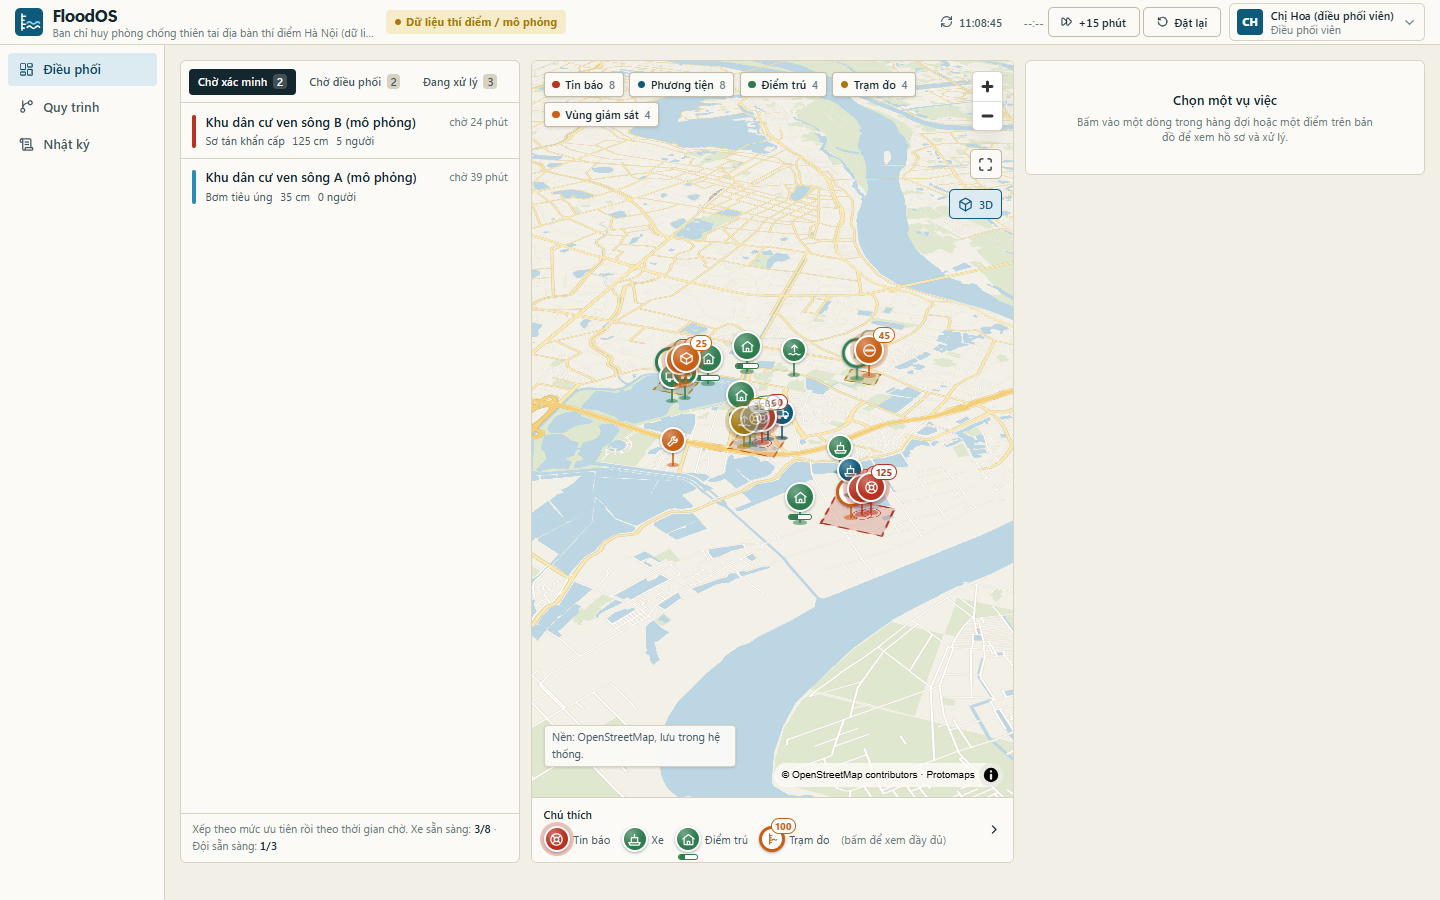
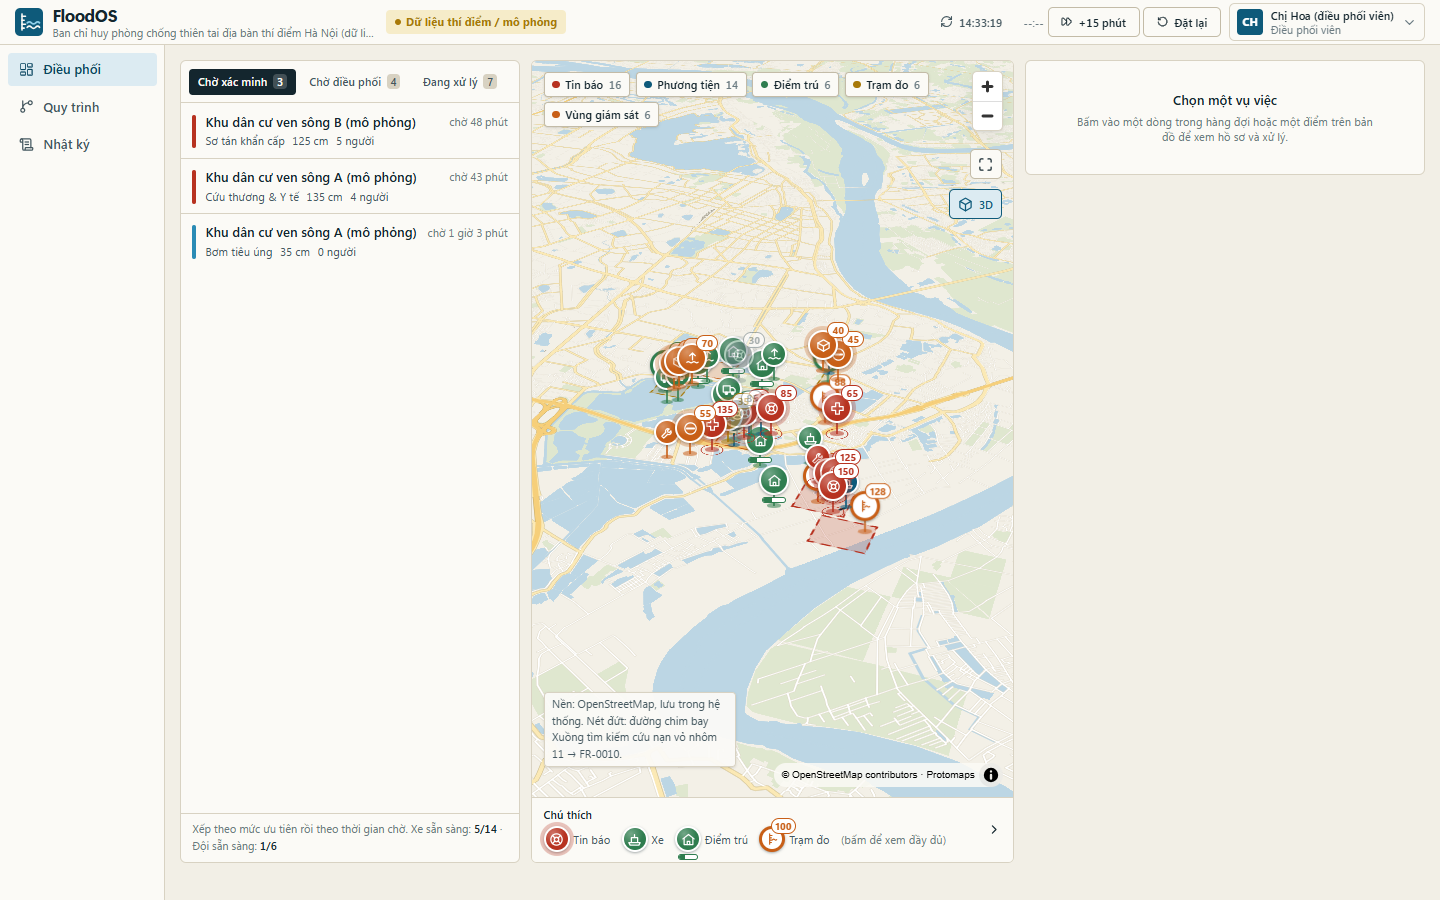
chore(scenario): expand tactical disaster scenario to 16 flood reports, 14 vehicles, and 6 shelters

Changed region(s): [[0.125, 0.0622, 0.7188, 0.9022]]

diff --git a/apps/web/src/utils/labels.ts b/apps/web/src/utils/labels.ts
@@ -70,6 +70,10 @@ const VEHICLE_TYPE: Record<string, string> = {
   RESCUE_BOAT: 'Xuồng cứu hộ',
   HIGH_CLEARANCE_TRUCK: 'Xe gầm cao lội nước',
   MOBILE_PUMP: 'Máy bơm di động',
+  AMPHIBIOUS_CARRIER: 'Xe lội nước bánh xích',
+  SCOUT_DRONE: 'Drone trinh sát tầm nhiệt',
+  AMBULANCE_AMPHIBIOUS: 'Xe cấp cứu lội nước',
+  COMMAND_VEHICLE: 'Xe chỉ huy tác chiến',
 };
 
 const VEHICLE_STATUS: Record<string, Label> = {

diff --git a/apps/floodos/FloodDataStore.java b/apps/floodos/FloodDataStore.java
@@ -502,13 +502,37 @@ public final class FloodDataStore {
         Instant base = Instant.now().truncatedTo(ChronoUnit.HOURS);
         String now = iso(Instant.now());
 
+        // Zones bổ sung
+        addZone("Z05", PILOT_ORG, "Khu vực hạ lưu sông Nhuệ - Hà Đông (mô phỏng)", "CRITICAL", 115.0, 20.9540, 105.8870, 28.0, now);
+        addZone("Z06", PILOT_ORG, "Tuyến đê bãi bồi sông Đáy (mô phỏng)", "WARNING", 85.0, 20.9790, 105.8620, 22.0, now);
+
+        // Đội cứu hộ chuyên trách bổ sung
+        teams.put("T04", new RescueTeam("T04", PILOT_ORG, "usr_team_binh", "Đội y tế khẩn cấp 04", 4, List.of("MEDICAL", "FIRST_AID"), 4.9, "ON_MISSION"));
+        teams.put("T05", new RescueTeam("T05", PILOT_ORG, "usr_team_cuong", "Đội thợ lặn & cứu nạn 05", 5, List.of("BOAT_RESCUE", "DIVER_RESCUE"), 4.9, "ON_MISSION"));
+        teams.put("T06", new RescueTeam("T06", PILOT_ORG, "usr_team_dung", "Đội xung kích hậu cần 06", 8, List.of("HIGH_WATER_TRUCK", "LOGISTICS"), 4.7, "ON_MISSION"));
+
+        // Phương tiện cứu hộ cơ giới & trang thiết bị đa chủng loại
         addVehicle("V06", PILOT_ORG, "Xe lội nước bánh xích 06", "AMPHIBIOUS_CARRIER", 16, "PERSONS", "WORKING", 85, 98, 20.9675, 105.8730, "T02", now);
-        addVehicle("V07", PILOT_ORG, "Xuồng cứu hộ cao tốc 07", "RESCUE_BOAT", 12, "PERSONS", "WORKING", 74, 95, 20.9610, 105.8820, "T01", now);
+        addVehicle("V07", PILOT_ORG, "Xuồng cứu hộ cao tốc 07", "RESCUE_BOAT", 12, "PERSONS", "BREAKDOWN", 74, 85, 20.9610, 105.8820, "T01", now);
         addVehicle("V08", PILOT_ORG, "Drone trinh sát tầm nhiệt 08", "SCOUT_DRONE", 5, "KG", "IDLE", 92, 99, 20.9710, 105.8610, "T02", now);
+        addVehicle("V09", PILOT_ORG, "Xe cấp cứu lội nước 09", "AMBULANCE_AMPHIBIOUS", 4, "PERSONS", "WORKING", 88, 98, 20.9645, 105.8710, "T04", now);
+        addVehicle("V10", PILOT_ORG, "Trạm bơm dã chiến công suất lớn 10", "MOBILE_PUMP", 3500, "M3_PER_HOUR", "IDLE", 82, 95, 20.9760, 105.8625, "T03", now);
+        addVehicle("V11", PILOT_ORG, "Xuồng tìm kiếm cứu nạn vỏ nhôm 11", "RESCUE_BOAT", 12, "PERSONS", "WORKING", 90, 97, 20.9580, 105.8860, "T05", now);
+        addVehicle("V12", PILOT_ORG, "Xe tải đặc chủng vượt lũ 3 cầu 12", "HIGH_CLEARANCE_TRUCK", 25, "PERSONS", "WORKING", 76, 94, 20.9825, 105.8760, "T06", now);
+        addVehicle("V13", PILOT_ORG, "Drone thả phao cứu sinh tự động 13", "SCOUT_DRONE", 10, "KG", "IDLE", 95, 99, 20.9670, 105.8720, "T01", now);
+        addVehicle("V14", PILOT_ORG, "Xe chỉ huy tác chiến & phát điện 14", "COMMAND_VEHICLE", 8, "PERSONS", "IDLE", 85, 96, 20.9700, 105.8680, "T02", now);
 
+        // Điểm sơ tán an toàn
         shelters.put("S04", new SafeShelter("S04", PILOT_ORG, "Nhà thi đấu TDTT quận (điểm trú dã chiến)", 350, 120, "SEED", 20.9780, 105.8650, "OPEN", now));
-        gauges.put("G04", new GaugeStation("G04", PILOT_ORG, "Z04", "Trạm thủy văn sông Nhuệ G04", 20.9805, 105.8765, 85, 120, 78.0, now, "SIMULATOR"));
+        shelters.put("S05", new SafeShelter("S05", PILOT_ORG, "Cung thể thao Điền kinh Hà Nội", 600, 210, "SEED", 20.9765, 105.8695, "OPEN", now));
+        shelters.put("S06", new SafeShelter("S06", PILOT_ORG, "Trường THPT Chuyên Nguyễn Huệ (điểm sơ tán dự phòng)", 400, 145, "SEED", 20.9620, 105.8750, "OPEN", now));
 
+        // Trạm quan trắc thủy văn cảnh báo lũ
+        gauges.put("G04", new GaugeStation("G04", PILOT_ORG, "Z04", "Trạm thủy văn sông Nhuệ G04", 20.9805, 105.8765, 85, 120, 78.0, now, "SIMULATOR"));
+        gauges.put("G05", new GaugeStation("G05", PILOT_ORG, "Z05", "Trạm thủy văn đập Đáy G05", 20.9550, 105.8890, 110, 135, 128.0, now, "SIMULATOR"));
+        gauges.put("G06", new GaugeStation("G06", PILOT_ORG, "Z01", "Trạm thủy văn Cầu Trắng Hà Đông G06", 20.9720, 105.8790, 80, 95, 88.0, now, "SIMULATOR"));
+
+        // Danh sách tin báo ngập lụt đa cấp độ
         reports.put("FR-0005", report("FR-0005", "Z02", "usr_reporter_lan", 20.9592, 105.8845, 125, "EVACUATION", 5,
                 "Nước lũ dâng ngập ngang ngực, có cụ già 82 tuổi và 2 trẻ nhỏ đang mắc kẹt trên gác xép cần xuồng cứu hộ gấp", "CRITICAL", "RECEIVED", base.minus(15, ChronoUnit.MINUTES)));
         reports.put("FR-0006", report("FR-0006", "Z04", "usr_reporter_hung", 20.9815, 105.8775, 45, "ROAD_BLOCKED", 0,
@@ -518,19 +542,69 @@ public final class FloodDataStore {
         reports.put("FR-0008", report("FR-0008", "Z01", "usr_reporter_hung", 20.9658, 105.8708, 85, "EVACUATION", 6,
                 "Đã sơ tán an toàn 6 người dân ngập sâu đến Trường tiểu học cụm A an toàn", "URGENT", "RESOLVED", base.minus(240, ChronoUnit.MINUTES)));
 
+        reports.put("FR-0009", report("FR-0009", "Z01", "usr_reporter_lan", 20.9630, 105.8690, 135, "MEDICAL", 4,
+                "Trạm y tế xã ngập tầng 1, có 2 bệnh nhân thở máy cần máy phát điện khẩn cấp và xe cứu thương lội nước di dời khẩn cấp", "CRITICAL", "RECEIVED", base.minus(10, ChronoUnit.MINUTES)));
+        reports.put("FR-0010", report("FR-0010", "Z02", "usr_reporter_hung", 20.9570, 105.8850, 150, "EVACUATION", 7,
+                "Sạt đê bao phụ kênh dẫn nước, dòng chảy xiết ngập đến mái nhà, 7 người dân đang bám trên mái tôn kêu cứu khẩn cấp", "CRITICAL", "IN_PROGRESS", base.minus(50, ChronoUnit.MINUTES)));
+        reports.put("FR-0011", report("FR-0011", "Z03", "usr_reporter_lan", 20.9750, 105.8610, 70, "PUMPING", 0,
+                "Hầm chung cư HH bị nước tràn từ đường lớn, trạm biến áp ngầm có nguy cơ nổ chập nếu nước dâng thêm 15cm, cần máy bơm công suất lớn", "HIGH", "VERIFIED", base.minus(35, ChronoUnit.MINUTES)));
+        reports.put("FR-0012", report("FR-0012", "Z01", "usr_reporter_hung", 20.9680, 105.8740, 85, "EVACUATION", 9,
+                "Khu dân cư tổ 5 ngõ 12 bị ngập sâu chia cắt, các gia đình đã gom người già lên tầng 2 nhưng nước tiếp tục dâng 10cm/giờ", "URGENT", "DISPATCHED", base.minus(75, ChronoUnit.MINUTES)));
+        reports.put("FR-0013", report("FR-0013", "Z04", "usr_reporter_lan", 20.9830, 105.8750, 40, "FOOD_WATER", 25,
+                "Cụm dân cư xóm Đồi bị cô lập 4 ngày do cầu tràn ngập nước chảy xiết, 25 người dân cạn kiệt lương thực và nước sạch", "HIGH", "IN_PROGRESS", base.minus(180, ChronoUnit.MINUTES)));
+        reports.put("FR-0014", report("FR-0014", "Z01", "usr_reporter_hung", 20.9615, 105.8670, 55, "ROAD_BLOCKED", 0,
+                "Cây xà cừ cổ thụ bật gốc đè lên dây điện và chắn ngang quốc lộ đoạn qua cống tiêu, ngăn cản xe cứu hộ tiếp cận", "HIGH", "VERIFIED", base.minus(60, ChronoUnit.MINUTES)));
+        reports.put("FR-0015", report("FR-0015", "Z02", "usr_reporter_lan", 20.9705, 105.8810, 65, "MEDICAL", 1,
+                "Sản phụ chuyển dạ sinh non trong vùng ngập sâu đường ngõ hẹp, xe cứu thương thông thường không vào được", "URGENT", "IN_PROGRESS", base.minus(85, ChronoUnit.MINUTES)));
+        reports.put("FR-0016", report("FR-0016", "Z03", "usr_reporter_hung", 20.9775, 105.8660, 30, "EVACUATION", 8,
+                "Đã hoàn thành sơ tán an toàn 8 hộ dân khu trũng bãi bồi ven sông sang Nhà thi đấu TDTT quận trước đỉnh lũ", "NORMAL", "RESOLVED", base.minus(300, ChronoUnit.MINUTES)));
+
+        // Lệnh điều động lực lượng
         orders.put("ORD-0003", new DispatchOrder("ORD-0003", PILOT_ORG, "FR-0008", "usr_reporter_hung", "Z01", "V06", "T02",
                 iso(base.minus(3, ChronoUnit.HOURS)), iso(base.minus(1, ChronoUnit.HOURS)), "COMPLETED", 100.0, null, null,
                 "CORR-FR-0008", "usr_dispatcher_hoa", iso(base.minus(210, ChronoUnit.MINUTES))));
         orders.put("ORD-0004", new DispatchOrder("ORD-0004", PILOT_ORG, "FR-0007", "usr_reporter_lan", "Z03", "V03", "T02",
                 iso(base.minus(2, ChronoUnit.HOURS)), iso(base.plus(1, ChronoUnit.HOURS)), "IN_PROGRESS", 65.0, null, null,
                 "CORR-FR-0007", "usr_dispatcher_hoa", iso(base.minus(90, ChronoUnit.MINUTES))));
+        orders.put("ORD-0005", new DispatchOrder("ORD-0005", PILOT_ORG, "FR-0010", "usr_reporter_hung", "Z02", "V11", "T05",
+                iso(base.minus(40, ChronoUnit.MINUTES)), iso(base.plus(2, ChronoUnit.HOURS)), "IN_PROGRESS", 50.0, null, null,
+                "CORR-FR-0010", "usr_dispatcher_hoa", iso(base.minus(45, ChronoUnit.MINUTES))));
+        orders.put("ORD-0006", new DispatchOrder("ORD-0006", PILOT_ORG, "FR-0013", "usr_reporter_lan", "Z04", "V12", "T06",
+                iso(base.minus(150, ChronoUnit.MINUTES)), iso(base.plus(1, ChronoUnit.HOURS)), "IN_PROGRESS", 80.0, null, null,
+                "CORR-FR-0013", "usr_dispatcher_hoa", iso(base.minus(160, ChronoUnit.MINUTES))));
+        orders.put("ORD-0007", new DispatchOrder("ORD-0007", PILOT_ORG, "FR-0015", "usr_reporter_lan", "Z02", "V09", "T04",
+                iso(base.minus(70, ChronoUnit.MINUTES)), iso(base.plus(1, ChronoUnit.HOURS)), "IN_PROGRESS", 60.0, null, null,
+                "CORR-FR-0015", "usr_dispatcher_hoa", iso(base.minus(75, ChronoUnit.MINUTES))));
+        orders.put("ORD-0008", new DispatchOrder("ORD-0008", PILOT_ORG, "FR-0012", "usr_reporter_hung", "Z01", "V02", "T02",
+                iso(base.minus(10, ChronoUnit.MINUTES)), iso(base.plus(3, ChronoUnit.HOURS)), "CONFIRMED", 0.0, null, null,
+                "CORR-FR-0012", "usr_dispatcher_hoa", iso(base.minus(15, ChronoUnit.MINUTES))));
+        orders.put("ORD-0009", new DispatchOrder("ORD-0009", PILOT_ORG, "FR-0016", "usr_reporter_hung", "Z03", "V06", "T02",
+                iso(base.minus(4, ChronoUnit.HOURS)), iso(base.minus(2, ChronoUnit.HOURS)), "COMPLETED", 100.0, null, null,
+                "CORR-FR-0016", "usr_dispatcher_hoa", iso(base.minus(280, ChronoUnit.MINUTES))));
 
+        // Sự cố phương tiện hiện trường & phương án thay thế Replan
+        incidents.put("INC-0002", new FieldIncident("INC-0002", PILOT_ORG, "V07", "usr_team_binh",
+                "MAJOR", "PROPELLER_FOULED", "Xuồng 07 bị quấn rác và lưới đánh cá vào chân vịt, động cơ tạm dừng hoạt động",
+                1.5, null, null, "REP-0002", "usr_resource_giang", "OPEN_REPLANNING", "PRC-INC-0002",
+                List.of("ORD-0005"),
+                List.of(
+                        Map.of("option_id", "OPT-V11-T05", "replacement_vehicle_id", "V11", "replacement_team_id", "T05", "vehicle_name", "Xuồng tìm kiếm cứu nạn vỏ nhôm 11", "team_name", "Đội thợ lặn 05", "score", 95.0, "distance_km", 1.2),
+                        Map.of("option_id", "OPT-V06-T02", "replacement_vehicle_id", "V06", "replacement_team_id", "T02", "vehicle_name", "Xe lội nước bánh xích 06", "team_name", "Đội cơ động 02", "score", 88.0, "distance_km", 2.1)
+                ),
+                null, "CORR-INC-0002", iso(base.minus(25, ChronoUnit.MINUTES))));
+
+        // Báo cáo hoàn tất vụ việc có xác nhận
         resolutions.put("RES-0008", new ReportResolution("RES-0008", PILOT_ORG, "FR-0008", "ORD-0003",
                 "RESOLVED", 15.0, null, "usr_team_cuong", "usr_reporter_hung", "CONFIRMED",
                 "Đã hoàn thành sơ tán 6 người dân ngập sâu an toàn về điểm trú. Sức khỏe người dân ổn định.",
                 "CORR-FR-0008", iso(base.minus(30, ChronoUnit.MINUTES)), iso(base.minus(45, ChronoUnit.MINUTES))));
+        resolutions.put("RES-0016", new ReportResolution("RES-0016", PILOT_ORG, "FR-0016", "ORD-0009",
+                "RESOLVED", 10.0, null, "usr_team_cuong", "usr_reporter_hung", "CONFIRMED",
+                "Đã sơ tán 8 hộ dân và tài sản quan trọng về Cung thể thao an toàn trước khi nước lũ đạt đỉnh.",
+                "CORR-FR-0016", iso(base.minus(90, ChronoUnit.MINUTES)), iso(base.minus(120, ChronoUnit.MINUTES))));
 
-        for (String rId : List.of("FR-0005", "FR-0006", "FR-0007", "FR-0008")) {
+        // Khởi động BPMN process cho tất cả các tin báo mở rộng
+        for (String rId : List.of("FR-0005", "FR-0006", "FR-0007", "FR-0008", "FR-0009", "FR-0010", "FR-0011", "FR-0012", "FR-0013", "FR-0014", "FR-0015", "FR-0016")) {
             FloodReport r = reports.get(rId);
             String[] step = reportStep(r.status);
             bpmnEngine.startInstance(r.bpmnProcessId, r.organizationId, PROCESS_REPORT, r.reportId,
@@ -540,12 +614,18 @@ public final class FloodDataStore {
                     now);
         }
 
-        Map<String, Object> c5 = new LinkedHashMap<>();
-        c5.put("report_id", "FR-0005");
-        c5.put("depth_cm", 125.0);
-        c5.put("priority", "CRITICAL");
-        auditLedger.appendRecord(PILOT_ORG, "CORR-FR-0005", "FloodReport", "FR-0005",
-                "CREATE_FLOOD_REPORT", "reporter_lan", FloodRoles.REPORTER, null, c5, 200);
+        // Audit Trail và sổ cái mật mã học
+        for (String rId : List.of("FR-0005", "FR-0006", "FR-0007", "FR-0008", "FR-0009", "FR-0010", "FR-0011", "FR-0012", "FR-0013", "FR-0014", "FR-0015", "FR-0016")) {
+            FloodReport r = reports.get(rId);
+            Map<String, Object> payload = new LinkedHashMap<>();
+            payload.put("report_id", r.reportId);
+            payload.put("depth_cm", r.depthCm);
+            payload.put("priority", r.priority);
+            payload.put("need_type", r.needType);
+            payload.put("people_affected", r.peopleAffected);
+            auditLedger.appendRecord(PILOT_ORG, "CORR-" + r.reportId, "FloodReport", r.reportId,
+                    "CREATE_FLOOD_REPORT", r.reporterUserId.replace("usr_", ""), FloodRoles.REPORTER, null, payload, 200);
+        }
 
         Map<String, Object> c8 = new LinkedHashMap<>();
         c8.put("report_id", "FR-0008");
@@ -553,6 +633,13 @@ public final class FloodDataStore {
         c8.put("status", "RESOLVED");
         auditLedger.appendRecord(PILOT_ORG, "CORR-FR-0008", "ReportResolution", "RES-0008",
                 "CONFIRM_RESOLUTION_AND_SEAL_LEDGER", "reporter_hung", FloodRoles.REPORTER, null, c8, 200);
+
+        Map<String, Object> c16 = new LinkedHashMap<>();
+        c16.put("report_id", "FR-0016");
+        c16.put("resolution_id", "RES-0016");
+        c16.put("status", "RESOLVED");
+        auditLedger.appendRecord(PILOT_ORG, "CORR-FR-0016", "ReportResolution", "RES-0016",
+                "CONFIRM_RESOLUTION_AND_SEAL_LEDGER", "reporter_hung", FloodRoles.REPORTER, null, c16, 200);
     }
 
     private void addUser(String username, String fullName, String orgId, String role) {
